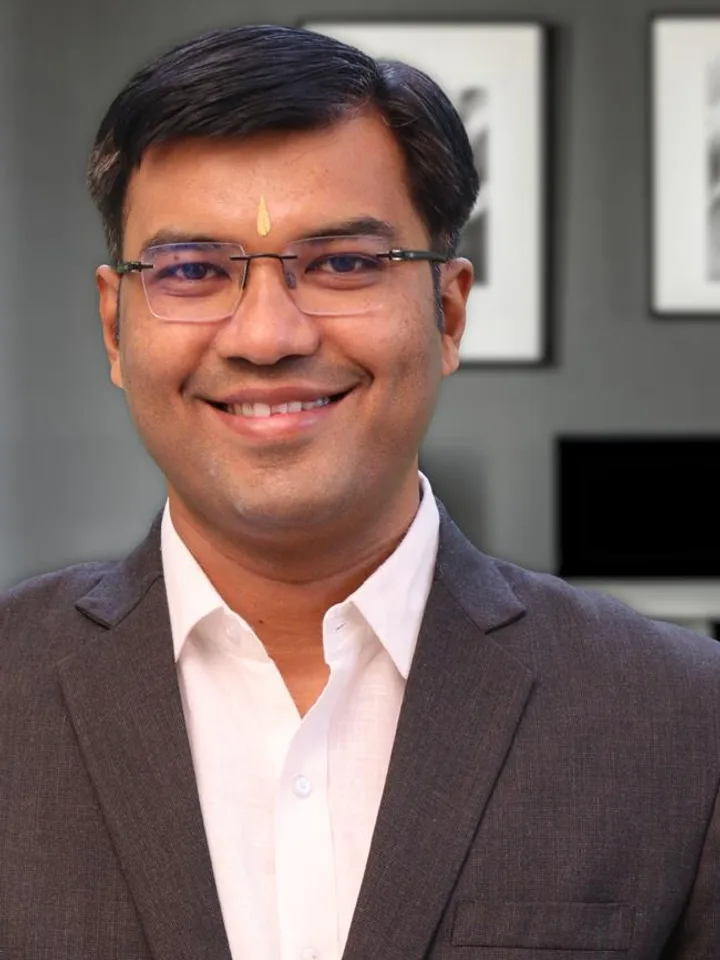
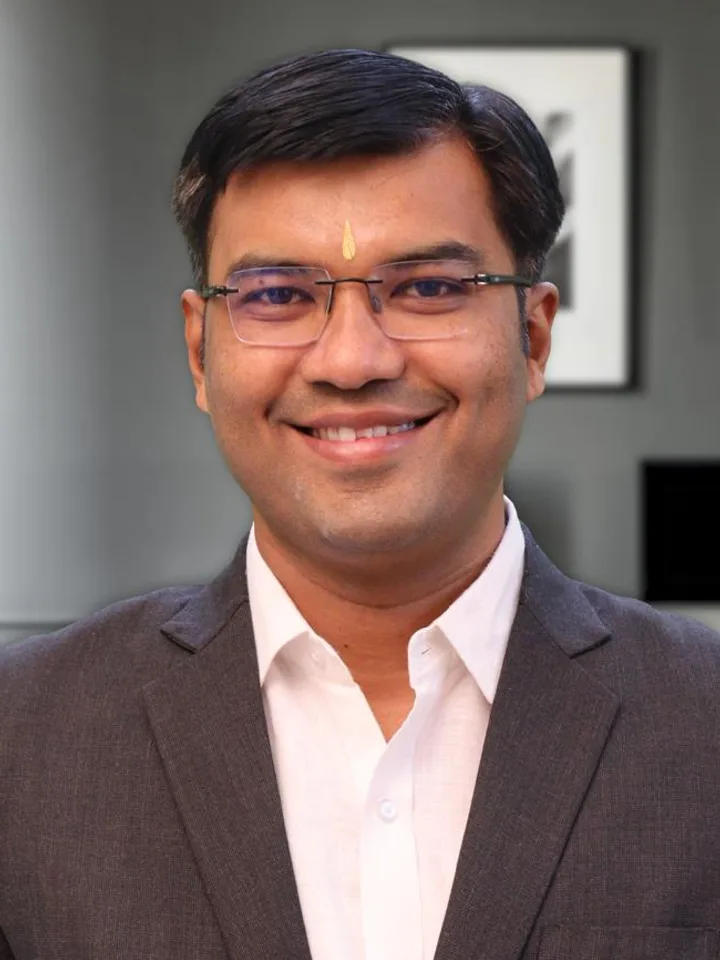
Update team member roles for clarity and add grid measurement script for photo alignment

diff --git a/scripts/build-team-photos.js b/scripts/build-team-photos.js
@@ -3,24 +3,39 @@
 
     node scripts/build-team-photos.js
 
-  The four photos the client supplied were shot at four different distances —
-  two full-body, two head-and-shoulders — so a fixed crop puts one face at the
-  top of its card and another in the middle. Each subject therefore carries its
-  own framing, and the numbers live here rather than in someone's shell history:
-  when a leader is replaced, you change one line and re-run.
+  The supplied photos were shot at different distances — one near-square, the
+  rest head-and-shoulders — so a fixed crop puts one face at the top of its
+  card and another in the middle. Each subject therefore carries
+  its own measurements, and they live here rather than in someone's shell
+  history: when a leader is replaced you change four numbers and re-run.
 
-    faceY / faceX  where the face sits in the source, as a fraction
-    zoom           crop height as a fraction of source height (smaller = tighter)
+  ── How to measure a new photo ─────────────────────────────────────────────
+  Run scripts/grid-team-photos.js to overlay a labelled grid, then read off:
 
-  These were set by eye against a contact sheet, deliberately. An automatic pass
-  over skin tones put Devarshi's face on his desk, because polished wood and
-  skin occupy the same corner of RGB. If you re-tune, render all the crops
-  side by side and look at them — matching face sizes is the whole job, and it
-  is not a thing a number tells you.
+    eyeY     the eye line, as a fraction of image HEIGHT
+    headTop  the top of the hair          }  headH = chin − headTop
+    chin     the bottom of the chin       }
+    eyeX     the bridge of the nose, as a fraction of image WIDTH
 
-  These four are the whole leadership roster. To add someone: drop the source
-  in assets-src/team/, add a line to SUBJECTS, run this, and add the matching
-  entry to `team.leadership` in lib/content.ts.
+  Do not try to detect this automatically. Two attempts failed on these exact
+  photos: a skin-tone pass put Devarshi's face on his wooden desk, and a
+  silhouette pass read his tan suit as skin and placed it on his chest. Wood,
+  tan fabric and skin occupy the same corner of RGB. Five photos take five
+  minutes to measure and the result is correct.
+
+  ── How the framing works ──────────────────────────────────────────────────
+  Every output places the eye line at EYE_AT and sizes the head to HEAD_AT, so
+  the faces line up across the row regardless of how each photo was shot. That
+  is the whole point: matching eye lines are what make a row of portraits read
+  as one set. The script prints the spread it achieved — if that is not ~0.001,
+  something clamped and the row will look wrong.
+
+  ⚠ Devarshi's source is the weak link. At 360x471 it holds less than a
+  quarter the pixels of the others, so his card is upscaled 2.5x and is visibly
+  the softest of the five. It also constrains the framing for everybody: his
+  head starts 7.5% from the top, which caps how far down the eye line can go.
+  A full-size original of that photograph would sharpen his card and widen the
+  window for the whole row. Worth asking the client for.
 */
 
 const sharp = require("sharp");
@@ -30,19 +45,71 @@ const path = require("path");
 const SRC = path.join(__dirname, "..", "assets-src", "team");
 const OUT = path.join(__dirname, "..", "public", "assets", "team");
 
-/* 3:4 at 2x the 360x480 the cards render at, so they stay sharp on retina. */
+/* 3:4 at 2x the ~360x480 the cards render at, so they stay sharp on retina. */
 const OUT_W = 720;
 const OUT_H = 960;
 const RATIO = OUT_W / OUT_H;
 
-/* Where the face lands vertically in the finished card. */
-const FACE_AT = 0.38;
+/*
+  These two are not free choices — they are the window every source can satisfy
+  at once, and it is narrow.
 
+  Devarshi's head starts 7.5% from the top of his frame, which caps how far down
+  the eye line can sit: past EYE_AT 0.332 his crop wants pixels above the top of
+  his photograph and clamps. That is the ceiling.
+
+  The floor is headroom, and it is the constraint this file originally missed.
+  A subject's crown sits at EYE_AT − f·HEAD_AT of the card, where f is the share
+  of the head above the eye line. Smit's hair is voluminous — f = 0.61 against
+  0.46 for Pratik — so at EYE_AT 0.29 his crown landed at 0.005 of the card and
+  the top of his hair was sliced off. Nothing warned: his crop never clamped, so
+  the eye-line spread still reported 0.001 while the card was visibly wrong.
+
+  0.315 clears him by 3% of the card (~29px) and leaves Devarshi 6px of slack
+  before he clamps. Raising HEAD_AT instead would also work, but it enlarges
+  every head and pushes Devarshi's upscale past 2.7x, and he is already the
+  softest card in the row.
+
+  0.47 for a second reason too: Ritesh is 1024px wide and a wider crop runs out
+  of frame before his face reaches the middle. At 0.45 he sits 3.5% off centre,
+  at 0.47 it is 1.5% — invisible. Going further costs sharpness on Devarshi.
+
+  Changing either number without re-solving will silently clamp somebody's crop
+  or shave somebody's hair. The run prints headroom for exactly that reason.
+*/
+/** Where the eye line lands in the finished card, as a fraction of its height. */
+const EYE_AT = 0.315;
+/** How tall the head is in the finished card, hair to chin. */
+const HEAD_AT = 0.47;
+
+/*
+  Measured off a 1% grid, one subject per sheet — see scripts/grid-team-photos.js.
+
+  Worth stating how wrong eyeballing this was: read from a 450px-wide contact
+  sheet, Pratik's head height came out at 0.085 against a true 0.170, and
+  Devarshi's face centre at 0.510 against a true 0.655. Half the head size and a
+  seventh of the frame off centre. Measure at full size.
+
+  Listed in the order the cards appear on /team.
+*/
 const SUBJECTS = [
-  { slug: "devarshi-shah",    file: "devarshi-shah.png",    faceY: 0.30, faceX: 0.47, zoom: 0.98 },
-  { slug: "pratik-shah",      file: "pratik-shah.jpg",      faceY: 0.19, faceX: 0.46, zoom: 0.42 },
-  { slug: "ritesh-prajapati", file: "ritesh-prajapati.jpg", faceY: 0.29, faceX: 0.49, zoom: 0.70 },
-  { slug: "smit-shah",        file: "smit-shah.jpg",        faceY: 0.22, faceX: 0.54, zoom: 0.50 },
+  { slug: "smit-shah",        file: "smit-shah.jpg",        eyeY: 0.200, headH: 0.254, headTop: 0.046, eyeX: 0.455 },
+  { slug: "devarshi-shah",    file: "devarshi-shah.png",    eyeY: 0.265, headH: 0.375, headTop: 0.075, eyeX: 0.510 },
+  { slug: "arpit-shah",       file: "arpit-shah.jpg",       eyeY: 0.305, headH: 0.340, headTop: 0.150, eyeX: 0.500 },
+  { slug: "ritesh-prajapati", file: "ritesh-prajapati.jpg", eyeY: 0.395, headH: 0.370, headTop: 0.185, eyeX: 0.430 },
+  /*
+    Pratik's second photograph, and a much easier one: square, 1254px, shot
+    square-on against white, so his face centre and the frame centre agree and
+    eyeX needs no nudge. The first photo was a distant three-quarter shot whose
+    head filled 0.170 of the frame and whose shoulders sat well right of his
+    face — it needed eyeX pushed to 0.430 to fill the crop, and it upscaled
+    hard. This one crops at 1.14x.
+
+    It arrived as a circle on black. The black is gone: assets-src holds it
+    already flattened onto the same white the circle sits on, because a 3:4
+    crop of the original pulls black wedges into two corners of the card.
+  */
+  { slug: "pratik-shah",      file: "pratik-shah.jpg",      eyeY: 0.230, headH: 0.315, headTop: 0.085, eyeX: 0.495 },
 ];
 
 (async () => {
@@ -50,6 +117,7 @@ const SUBJECTS = [
 
   let bytesIn = 0;
   let bytesOut = 0;
+  const report = [];
 
   for (const s of SUBJECTS) {
     const from = path.join(SRC, s.file);
@@ -61,18 +129,25 @@ const SUBJECTS = [
 
     const { width: W, height: H } = await sharp(from).metadata();
 
-    let ch = Math.round(H * s.zoom);
+    /* Crop tall enough that the head fills HEAD_AT of it. */
+    let ch = Math.round((s.headH * H) / HEAD_AT);
     let cw = Math.round(ch * RATIO);
-    /* Never ask for a crop wider than the source, or extract() throws. */
+
+    /* Never ask for more than the source holds, or extract() throws. */
     if (cw > W) {
       cw = W;
       ch = Math.round(cw / RATIO);
     }
+    if (ch > H) {
+      ch = H;
+      cw = Math.round(ch * RATIO);
+    }
 
-    let top = Math.round(H * s.faceY - ch * FACE_AT);
-    let left = Math.round(W * s.faceX - cw / 2);
-    top = Math.max(0, Math.min(top, H - ch));
-    left = Math.max(0, Math.min(left, W - cw));
+    /* Place the eye line and the face centre, then clamp inside the frame. */
+    const wantTop = s.eyeY * H - EYE_AT * ch;
+    const wantLeft = s.eyeX * W - cw / 2;
+    const top = Math.max(0, Math.min(Math.round(wantTop), H - ch));
+    const left = Math.max(0, Math.min(Math.round(wantLeft), W - cw));
 
     const dest = path.join(OUT, `${s.slug}.webp`);
     await sharp(from)
@@ -85,14 +160,34 @@ const SUBJECTS = [
       .toFile(dest);
 
     bytesOut += fs.statSync(dest).size;
+
+    /* What the framing actually came out as, after clamping. */
+    const eyeActual = (s.eyeY * H - top) / ch;
+    const headActual = (s.headH * H) / ch;
+    const offCentre = Math.abs(Math.round(wantLeft) - left) / cw;
+    /* Distance from the top of the card to the top of the hair. Negative means
+       the crop cut into the crown, which no other check here catches. */
+    const headroom = (s.headTop * H - top) / ch;
+
+    report.push({ eyeActual, headActual, headroom });
+
     console.log(
-      `${s.slug.padEnd(18)} ${String(W)}x${H} -> ${cw}x${ch} @ ${left},${top} -> ` +
-        `${OUT_W}x${OUT_H}  ${(fs.statSync(dest).size / 1024).toFixed(0)} KB`
+      `${s.slug.padEnd(18)} ${W}x${H} -> ${cw}x${ch} @ ${left},${top}` +
+        `   eye ${eyeActual.toFixed(3)}  head ${headActual.toFixed(3)}  ${(OUT_H / ch).toFixed(2)}x` +
+        `  headroom ${(headroom * 100).toFixed(1)}%` +
+        (Math.round(wantTop) !== top ? "  ⚠ eye line clamped" : "") +
+        (offCentre > 0.005 ? `  ⚠ face ${(offCentre * 100).toFixed(1)}% off centre` : "") +
+        (headroom < 0.02 ? "  ⚠ HAIR CLIPPED — raise EYE_AT or lower HEAD_AT" : "")
     );
   }
 
+  const eyes = report.map((r) => r.eyeActual);
+  const heads = report.map((r) => r.headActual);
   console.log(
-    `\n${SUBJECTS.length} headshots  ` +
-      `${(bytesIn / 1024).toFixed(0)} KB -> ${(bytesOut / 1024).toFixed(0)} KB WebP`
+    `\n  eye-line spread  ${(Math.max(...eyes) - Math.min(...eyes)).toFixed(3)}` +
+      `   head-size spread ${(Math.max(...heads) - Math.min(...heads)).toFixed(3)}   (0 = aligned)`
+  );
+  console.log(
+    `  ${report.length} headshots  ${(bytesIn / 1024).toFixed(0)} KB -> ${(bytesOut / 1024).toFixed(0)} KB WebP`
   );
 })();

diff --git a/scripts/grid-team-photos.js b/scripts/grid-team-photos.js
@@ -1,0 +1,106 @@
+/*
+  Measuring aid for scripts/build-team-photos.js.
+
+    node scripts/grid-team-photos.js            all sources
+    node scripts/grid-team-photos.js smit-shah  just one
+
+  Writes one PNG per source into .tmp/team-grid/ with a 1% grid over the top
+  55% of the frame. Open it and read off four numbers for the SUBJECTS table:
+
+    eyeY     the horizontal line through the pupils
+    headTop  the top of the hair
+    chin     the bottom of the chin        (headH = chin − headTop)
+    eyeX     the bridge of the nose, as a fraction of image WIDTH
+
+  Read them at this size, not off a contact sheet. Measuring these photos from a
+  450px-wide thumbnail put Pratik's head height at 0.085 against a true 0.170 and
+  Devarshi's face centre at 0.510 against a true 0.655 — half the head size and a
+  seventh of the frame off centre, which is exactly what a row of misaligned
+  portraits looks like.
+
+  Automatic detection was tried twice and is not worth a third go: skin-tone
+  thresholding put Devarshi's face on his wooden desk, and a silhouette pass read
+  his tan suit as skin and placed it on his chest. Wood, tan fabric and skin all
+  sit in the same corner of RGB.
+*/
+
+const sharp = require("sharp");
+const fs = require("fs");
+const path = require("path");
+
+const SRC = path.join(__dirname, "..", "assets-src", "team");
+const OUT = path.join(__dirname, "..", ".tmp", "team-grid");
+
+/** Rendered height. Big enough that a 1% line is a real distance on screen. */
+const H = 1100;
+/** Only the top of the frame matters — that is where the head is. */
+const TOP = 0.55;
+
+(async () => {
+  if (!fs.existsSync(SRC)) {
+    console.log(`No sources at ${SRC}`);
+    return;
+  }
+  fs.mkdirSync(OUT, { recursive: true });
+
+  const only = process.argv[2];
+  const files = fs
+    .readdirSync(SRC)
+    .filter((f) => /\.(png|jpe?g)$/i.test(f))
+    .filter((f) => !only || f.startsWith(only));
+
+  if (files.length === 0) {
+    console.log(only ? `No source matching "${only}"` : "No sources found.");
+    return;
+  }
+
+  for (const file of files) {
+    const slug = file.replace(/\.(png|jpe?g)$/i, "");
+    const meta = await sharp(path.join(SRC, file)).metadata();
+    const w = Math.round((meta.width / meta.height) * H);
+    const vh = Math.round(H * TOP);
+
+    const base = await sharp(path.join(SRC, file))
+      .removeAlpha()
+      .resize(w, H)
+      .extract({ left: 0, top: 0, width: w, height: vh })
+      .toBuffer();
+
+    let g = "";
+    /* Horizontal: every 1%, labelled every 5%. Labels are fractions of the
+       FULL image height, not of this cropped view. */
+    for (let f = 0; f <= TOP * 100; f += 1) {
+      const y = (f / 100) * H;
+      const major = f % 5 === 0;
+      g +=
+        `<line x1="0" y1="${y}" x2="${w}" y2="${y}" stroke="${major ? "#ff2d55" : "#00e5ff"}" ` +
+        `stroke-opacity="${major ? 0.95 : 0.35}" stroke-width="${major ? 1.3 : 0.6}"/>`;
+      if (major) {
+        g += `<text x="3" y="${y - 2}" font-family="monospace" font-size="14" fill="#ff2d55">.${String(f).padStart(2, "0")}</text>`;
+      }
+    }
+    /* Vertical: every 2%, labelled every 10%, as a percentage of width. */
+    for (let f = 0; f <= 100; f += 2) {
+      const x = (f / 100) * w;
+      const major = f % 10 === 0;
+      g +=
+        `<line x1="${x}" y1="0" x2="${x}" y2="${vh}" stroke="${major ? "#ffd400" : "#00e5ff"}" ` +
+        `stroke-opacity="${major ? 0.9 : 0.3}" stroke-width="${major ? 1.2 : 0.6}"/>`;
+      if (major) {
+        g += `<text x="${x + 3}" y="${vh - 6}" font-family="monospace" font-size="14" fill="#ffd400">${f}</text>`;
+      }
+    }
+
+    const dest = path.join(OUT, `${slug}.png`);
+    await sharp(base)
+      .composite([
+        { input: Buffer.from(`<svg width="${w}" height="${vh}" xmlns="http://www.w3.org/2000/svg">${g}</svg>`) },
+      ])
+      .png()
+      .toFile(dest);
+
+    console.log(`${slug.padEnd(18)} ${meta.width}x${meta.height}  ->  ${path.relative(process.cwd(), dest)}`);
+  }
+
+  console.log(`\nRed lines are fractions of image height, yellow of image width.`);
+})();

diff --git a/lib/content.ts b/lib/content.ts
@@ -394,7 +394,7 @@ export const team = {
   leadership: [
     {
       name: "CA Smit Shah",
-      role: "Managing Director & Client Relations",
+      role: "Managing Director",
       photo: "/assets/team/smit-shah.webp",
       focus: "Accounting & Client Advisory",
       icon: "Calculator",
@@ -403,7 +403,7 @@ export const team = {
     },
     {
       name: "CA Devarshi Shah",
-      role: "Managing Director & Client Relations",
+      role: "Managing Director",
       photo: "/assets/team/devarshi-shah.webp",
       focus: "Audit Support & Assurance",
       icon: "ShieldCheck",
@@ -412,7 +412,7 @@ export const team = {
     },
     {
       name: "CA Arpit Shah",
-      role: "Managing Director & Client Relations",
+      role: "Managing Director",
       photo: "/assets/team/arpit-shah.webp",
       focus: "Taxation & Compliance",
       icon: "Receipt",
@@ -421,7 +421,7 @@ export const team = {
     },
     {
       name: "Ritesh Prajapati",
-      role: "Director & Delivery Head",
+      role: "Director",
       /* ⚠ NAME TO CONFIRM — the supplied bio document says "Ritesh
          Prajapati" and the supplied photo file is named "Ritesh Shah.jpeg".
          The bio wins here because it is the written document, but this needs
@@ -435,7 +435,7 @@ export const team = {
     },
     {
       name: "Pratik Shah",
-      role: "Director & Operational Head",
+      role: "Director",
       photo: "/assets/team/pratik-shah.webp",
       focus: "Operations & Client Relationships",
       icon: "Users2",
